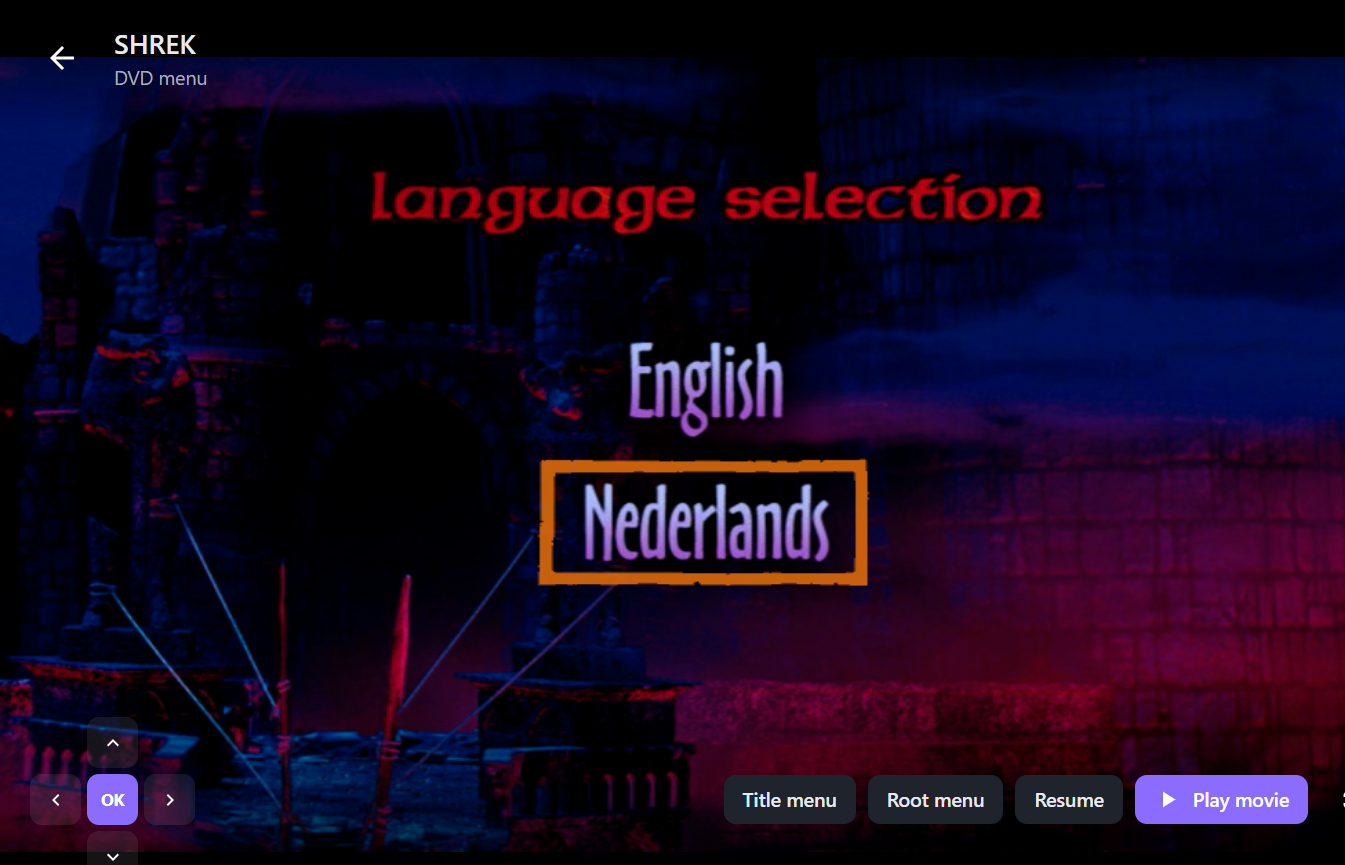
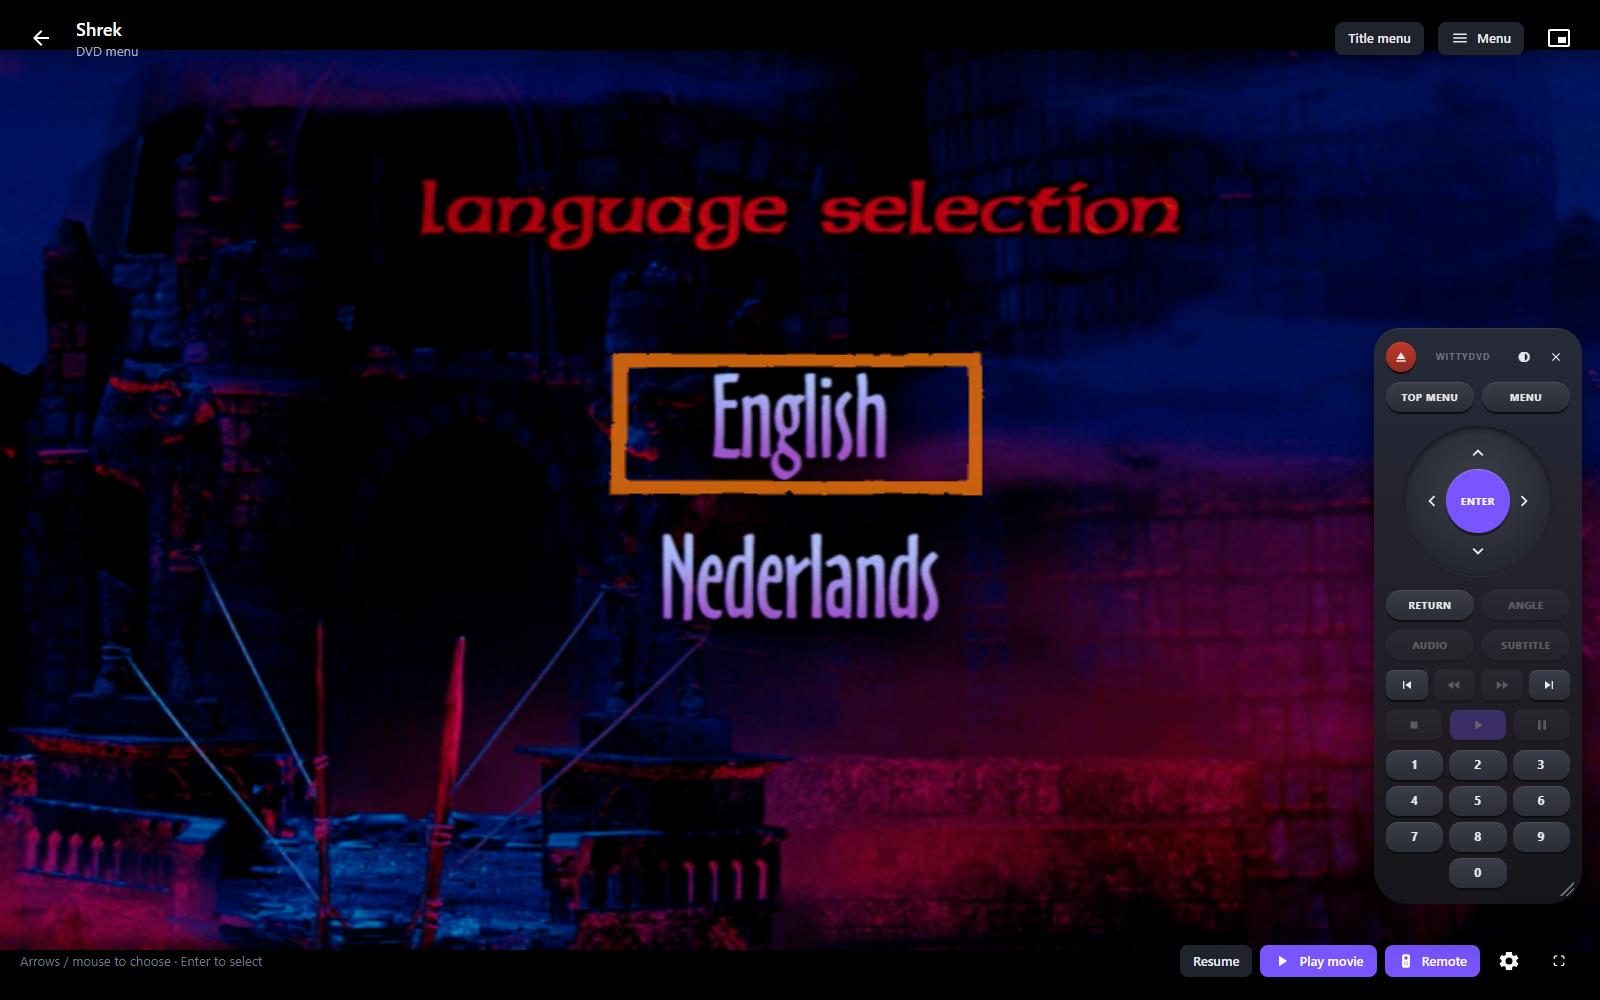
0.4.0-alpha: version, changelog and current screenshots
- Version 0.4.0-alpha everywhere (server, tray, setup, web, docs, scripts).
- CHANGELOG: the 0.4.0-alpha section (0.3.0-alpha was never published,
  so this release carries both).
- README screenshots retaken from the current app at 1600x1000: home, a
  library, a disc's page, the scene picker, a DVD's still and animated
  menus with the remote, music docked beside the library, setup, the
  folder browser and themes. No personal folder paths are shown.
- THEMES.md documents --accent-text and the contrast the themes meet.

diff --git a/web/src/components/common.tsx b/web/src/components/common.tsx
@@ -77,7 +77,7 @@ export function EmptyState({ title, text, action }: { title: string; text?: stri
 export function Spinner() { return <div style={{ display: 'grid', placeItems: 'center', padding: 60 }}><div className="spinner" /></div> }
 
 // VersionTag is the release line shown at the bottom of every page, e.g.
-// "WittyMediaServer 0.3.0 · ALPHA".
+// "WittyMediaServer 0.4.0 · ALPHA".
 export function VersionTag({ version }: { version: string }) {
   const m = /^v?(\d+\.\d+\.\d+)(?:-([a-z]+)[.\d]*)?/i.exec(version || '')
   const num = m ? m[1] : version || 'dev'

diff --git a/internal/library/podcasts.go b/internal/library/podcasts.go
@@ -123,7 +123,7 @@ func FetchFeed(ctx context.Context, feedURL string) (*rssFeed, error) {
 	if err != nil {
 		return nil, err
 	}
-	req.Header.Set("User-Agent", "WittyMediaServer/0.3 (podcasts)")
+	req.Header.Set("User-Agent", "WittyMediaServer/0.4 (podcasts)")
 	res, err := SafeClient.Do(req)
 	if err != nil {
 		return nil, err
@@ -360,7 +360,7 @@ func (s *Scanner) Download(ctx context.Context, it *Item) error {
 	if err != nil {
 		return err
 	}
-	req.Header.Set("User-Agent", "WittyMediaServer/0.3 (podcasts)")
+	req.Header.Set("User-Agent", "WittyMediaServer/0.4 (podcasts)")
 	res, err := SafeClient.Do(req)
 	if err != nil {
 		return err

diff --git a/internal/server/api_podcasts.go b/internal/server/api_podcasts.go
@@ -180,7 +180,7 @@ func (s *Server) proxyEpisode(w http.ResponseWriter, r *http.Request, it *librar
 		writeErr(w, 400, "bad episode address")
 		return
 	}
-	req.Header.Set("User-Agent", "WittyMediaServer/0.3 (podcasts)")
+	req.Header.Set("User-Agent", "WittyMediaServer/0.4 (podcasts)")
 	if rg := r.Header.Get("Range"); rg != "" {
 		req.Header.Set("Range", rg)
 	}

diff --git a/internal/library/wikidata.go b/internal/library/wikidata.go
@@ -22,7 +22,7 @@ type Wikidata struct {
 	Client *http.Client
 }
 
-const wikiUA = "WittyMediaServer/0.3 (https://github.com/wittywilla/WittyMediaServer)"
+const wikiUA = "WittyMediaServer/0.4 (https://github.com/wittywilla/WittyMediaServer)"
 
 // One request at a time with a short gap, as the Wikimedia API asks.
 var wikiGate = struct {

diff --git a/cmd/wms-tray/main.go b/cmd/wms-tray/main.go
@@ -28,7 +28,7 @@ import (
 
 // version is stamped by the release scripts (-X main.version=...); this is
 // the default for source builds.
-var version = "0.3.0-alpha"
+var version = "0.4.0-alpha"
 
 // trayExe is this program's path when it started (an update renames the
 // running file to *.old and puts the new version at this path).

diff --git a/cmd/wms/main.go b/cmd/wms/main.go
@@ -40,7 +40,7 @@ var startExe, _ = os.Executable()
 
 // version is stamped by the release scripts (-X main.version=...); this is
 // the default for source builds.
-var version = "0.3.0-alpha"
+var version = "0.4.0-alpha"
 
 func usage() {
 	fmt.Println(`WittyMediaServer

diff --git a/cmd/wms-setup/main_windows.go b/cmd/wms-setup/main_windows.go
@@ -40,7 +40,7 @@ import (
 )
 
 // version is stamped by the release scripts (-X main.version=...).
-var version = "0.3.0-alpha"
+var version = "0.4.0-alpha"
 
 const (
 	appName   = "WittyMediaServer"

diff --git a/README.md b/README.md
@@ -13,7 +13,7 @@
   <a href="LICENSE"><img alt="Licence: Apache-2.0" src="https://img.shields.io/badge/licence-Apache--2.0-blue.svg"></a>
   <img alt="Platforms" src="https://img.shields.io/badge/runs%20on-Windows%20·%20macOS%20·%20Linux%20·%20FreeBSD%20·%20Docker-8b6cff.svg">
   <img alt="Go 1.26+" src="https://img.shields.io/badge/Go-1.26%2B-00ADD8.svg">
-  <img alt="Version 0.3.0-alpha" src="https://img.shields.io/badge/version-0.3.0--alpha-orange.svg">
+  <img alt="Version 0.4.0-alpha" src="https://img.shields.io/badge/version-0.4.0--alpha-orange.svg">
 </p>
 
 <p align="center">
@@ -29,7 +29,7 @@
   <br><sub>A real DVD's animated menu, played in the browser and driven with the on-screen remote.</sub>
 </p>
 
-> **Alpha.** Version 0.3.0-alpha is usable every day but still changing quickly. Back up your data
+> **Alpha.** Version 0.4.0-alpha is usable every day but still changing quickly. Back up your data
 > folder before upgrading, and please report anything that goes wrong.
 
 ## Highlights
@@ -85,11 +85,17 @@ your own.
 
 ## Screenshots
 
-| Home | A title |
+| Home | A library |
 |:---:|:---:|
-| ![Home page with featured titles and rows](docs/screenshots/home.png) | ![A title's page with its poster, details and buttons](docs/screenshots/detail.png) |
-| **A DVD's still menu** | **A DVD's animated menu** |
-| ![A DVD language menu with a highlighted button](docs/screenshots/dvd-language-menu.png) | ![A DVD's animated main menu](docs/screenshots/dvd-main-menu.png) |
+| ![Home: a featured title, your libraries as tiles and what to watch next](docs/screenshots/home.png) | ![A DVD and Blu-ray library with format badges, filters and genres](docs/screenshots/library.png) |
+| **A disc's page** | **Scenes, while watching** |
+| ![A DVD's page with Insert DVD, Resume and Main menu, its details and the disc's facts](docs/screenshots/detail.png) | ![The player's scene picker: every scene as a picture with its time, the one playing marked](docs/screenshots/scenes.png) |
+| **A DVD's still menu** | **A DVD's animated menu, with the remote** |
+| ![A DVD language menu with a highlighted button](docs/screenshots/dvd-language-menu.png) | ![A DVD's animated main menu with the on-screen remote](docs/screenshots/dvd-main-menu.png) |
+| **Music, docked beside the library** | **Setup** |
+| ![An album with the full player docked on the right and the queue below](docs/screenshots/music.png) | ![The setup wizard's welcome page](docs/screenshots/setup.png) |
+| **Choosing folders from any device** | **Themes and layout** |
+| ![The built-in folder browser: drives, your folders and folders in your libraries](docs/screenshots/file-browser.png) | ![Settings, Appearance: layouts and themes](docs/screenshots/settings.png) |
 
 ## Get started
 
@@ -205,4 +211,4 @@ owners.
 
 ---
 
-<p align="center"><sub>WittyMediaServer 0.3.0-alpha · Apache-2.0 · Made by <a href="https://github.com/wittywilla">WittyWilla</a></sub></p>
+<p align="center"><sub>WittyMediaServer 0.4.0-alpha · Apache-2.0 · Made by <a href="https://github.com/wittywilla">WittyWilla</a></sub></p>

diff --git a/CHANGELOG.md b/CHANGELOG.md
@@ -3,7 +3,57 @@
 All notable changes to WittyMediaServer. Versions follow [semantic versioning](https://semver.org);
 `-alpha` releases may change settings and APIs between versions.
 
-## Unreleased
+## 0.4.0-alpha
+
+0.3.0-alpha was never published as a release, so this is the first release with everything in it
+as well (see its section below).
+
+### Player
+
+- **Scenes**: the Scenes button opens every scene as a picture with its time and name, like the
+  disc page, with the one playing now marked.
+- **Next moves on**: on the last scene, or in a short clip such as a warning or a trailer, Next goes
+  on to what the disc plays next instead of starting the clip again.
+- **No black flash** when a disc moves from one clip to the next (a menu to the next screen, Far Far
+  Away Idol's show to its vote, a vote to its answer): the last picture stays up until the next
+  clip has one.
+- **Forced captions** can be turned off in the viewing settings, for one disc or everything.
+- The disc remote fits its own edges with every engine name (WittyBluray was cut off).
+
+### DVDs
+
+- **Researched against the DVD-Video specification and the quirks real discs have**
+  ([DVD-QUIRKS.md](docs/DVD-QUIRKS.md)): random and shuffle program chains, parental blocks, menu
+  language fallback, junk cells used as structural protection, cells without NAV packs, every
+  sub-picture control sequence with colour regions (CHG_COLCON), buttons that end when the disc ends
+  them, and reserved bits in jump targets. Copy protection is still never decrypted.
+- Clips that hold their last picture (menus, games, credits) are never restarted part-way, which
+  left empty segments: Far Far Away Idol's credits and their music no longer race by.
+
+### Libraries and setup
+
+- **Built-in folder browser** (WittyIntegratedFileBrowser): choose the server's folders from any
+  device, with drives and free space, your folders, a path you can type, filtering, several folders
+  at once and full keyboard and screen-reader support. Read-only.
+- **Folders of the same kind** join that kind's library or become a new, named one: set the default
+  in setup and in *Settings → Libraries*, and choose either way when adding. Setup and Settings
+  show how many libraries there are.
+- **Server name and logo**: a Rename window with a live preview and a logo upload.
+- Setup: a centred welcome, and no Continue button while you choose a folder.
+
+### Accessibility
+
+- All 20 themes meet WCAG 2.2 AA contrast for text and buttons; a new `--accent-text` colours
+  links and highlighted words (see [THEMES.md](docs/THEMES.md)).
+- Dialogs keep the keyboard while open and give focus back; page changes are announced; settings
+  controls are named by their rows; the player says Play/Pause, reads its timeline, speaks what
+  changes and lists its keys under **?**.
+
+### Fixes
+
+- Pictures load when the browser holds another server's (or an expired) sign-in cookie.
+- The docked music player no longer moves the profile button; the profile's name shows beside it.
+
 
 ### Updates
 

diff --git a/docs/PUBLISHING.md b/docs/PUBLISHING.md
@@ -12,7 +12,7 @@ version (with the built archives) on GitHub's Releases page.
 1. Install [GitHub Desktop](https://desktop.github.com/) and sign in with your GitHub account.
 2. *File → Add local repository…* → choose the `WittyMediaServer` folder.
 3. The left panel lists every changed file. Write a summary at the bottom left, e.g.
-   `0.3.0-alpha: a new home, discs as films or series, podcasts, module versions`, and click
+   `0.4.0-alpha: one-click updates, a folder browser, accessibility and DVD fixes`, and click
    **Commit to master**.
 4. Click **Push origin** at the top. Your changes are now on GitHub.
 
@@ -33,7 +33,7 @@ Every time you want to publish:
 ```bash
 git status                     # see what changed
 git add -A                     # stage everything (the .gitignore keeps build output out)
-git commit -m "0.3.0-alpha: a new home, discs as films or series, podcasts, module versions"
+git commit -m "0.4.0-alpha: one-click updates, a folder browser, accessibility and DVD fixes"
 git push origin master         # upload
 ```
 
@@ -47,8 +47,8 @@ The repository's release workflow (`.github/workflows/release.yml`) builds every
 you push a **version tag**:
 
 ```bash
-git tag v0.3.0-alpha
-git push origin v0.3.0-alpha
+git tag v0.4.0-alpha
+git push origin v0.4.0-alpha
 ```
 
 Then watch the *Actions* tab on GitHub; when the workflow finishes, the archives for all ten
@@ -108,7 +108,7 @@ The same script the workflow uses runs locally (Windows: from *Git Bash*, or
 
 ```bash
 scripts/build-release.sh 0.2.0-alpha            # all ten platforms -> dist/
-scripts/build-release.sh 0.3.0-alpha windows/amd64 linux/arm64   # just some
+scripts/build-release.sh 0.4.0-alpha windows/amd64 linux/arm64   # just some
 ```
 
 On a non-Mac computer the macOS archives contain the server but not the menu-bar launcher (it
@@ -134,4 +134,4 @@ release a short summary of what changed.
   request* on GitHub so you can review the diff before it lands on `master`.
 
 ---
-<sub>WittyMediaServer 0.3.0-alpha documentation</sub>
+<sub>WittyMediaServer 0.4.0-alpha documentation</sub>

diff --git a/docs/THEMES.md b/docs/THEMES.md
@@ -137,6 +137,7 @@ Declare these on `:root`.
 | `--accent` | `#8b6cff` | primary buttons, active tabs/chips, progress bars, selected items, focus rings, DVD menu fallback highlight |
 | `--accent-2` | `#6a4df0` | hover/pressed state of accent buttons |
 | `--accent-fg` | `#fff` | text and icons on accent backgrounds |
+| `--accent-text` | `--accent` | the accent as text (links, highlighted words, the active item); keep it readable on `--bg`, `--bg-2` and `--bg-3` |
 | `--accent-rgb` | `139 108 255` | `--accent` as R G B for glows: `rgb(var(--accent-rgb) / .25)`. **Keep it in sync with `--accent`** |
 | `--brand-accent` | `var(--accent)` | the highlighted "Media" in the default name |
 | `--danger` | `#ff5c6c` | errors, delete buttons |
@@ -347,7 +348,9 @@ Set both the variables and the colour scheme:
 ```
 
 Use accents dark enough for white text (`--accent-fg: #fff`), or set `--accent-fg` to a dark
-colour for yellow/lime accents. Titles over artwork carry a text shadow; the built-in light themes
+colour for yellow/lime accents. Aim for WCAG AA contrast: 4.5:1 for `--fg-3` and `--accent-text` on every
+surface, and for `--accent-fg` on `--accent`; the built-in themes all pass, as
+`python scripts/theme-contrast.py` checks. Titles over artwork carry a text shadow; the built-in light themes
 soften it with `.hero h1, .detail h1 { text-shadow: 0 1px 6px rgba(255,255,255,.6) }`.
 
 ## Installing, updating and removing
@@ -397,4 +400,4 @@ Their sources live in [`themes/`](../themes) in the repository; each `theme.css`
 variable with a comment and is a good template.
 
 ---
-<sub>WittyMediaServer 0.3.0-alpha documentation</sub>
+<sub>WittyMediaServer 0.4.0-alpha documentation</sub>

diff --git a/docs/GETTING_STARTED.md b/docs/GETTING_STARTED.md
@@ -27,7 +27,7 @@ You do **not** need to install FFmpeg, a database or anything else: the download
 ## 2. Download and start
 
 1. Open the **Releases** page of the project on GitHub and download the archive for your system,
-   e.g. `wittymediaserver-0.3.0-alpha-windows-amd64.zip`.
+   e.g. `wittymediaserver-0.4.0-alpha-windows-amd64.zip`.
 2. Unzip it anywhere (for example `Documents\WittyMediaServer`).
 3. Start it:
    - **Windows**: double-click `WittyMediaServer.exe`. If SmartScreen warns about an unknown
@@ -148,4 +148,4 @@ On phones you can choose *Add to Home Screen* to get an app-like icon.
 - [Troubleshooting](TROUBLESHOOTING.md)
 
 ---
-<sub>WittyMediaServer 0.3.0-alpha documentation</sub>
+<sub>WittyMediaServer 0.4.0-alpha documentation</sub>
